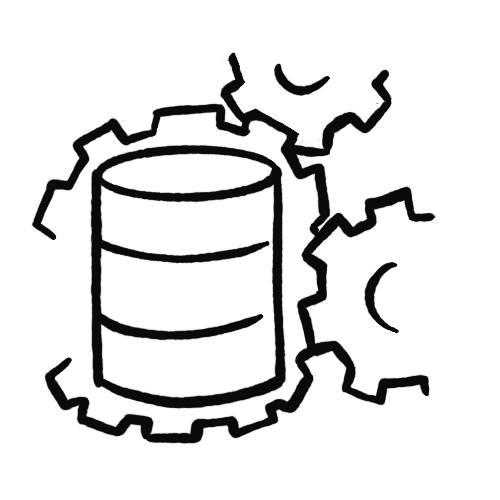
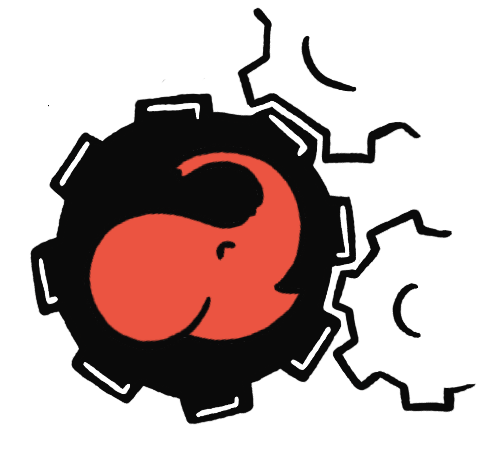
deploy: 911ce220da8ccbd3fe992e1dbddb18e883c57550

diff --git a/index.html b/index.html
@@ -709,7 +709,7 @@ your data – in one open source interface" />
           </div>
         </li>
         <li class="text-lg space-y-4">
-          <img class="h-12 mx-auto lg:m-0" src="assets/chest-icon.png" alt="Chest Icon" />
+          <img class="h-12 mx-auto lg:m-0" src="assets/os-icon.png" alt="Chest Icon" />
           <div>
             <span class="font-bold">No paid plans</span> – everyone gets access
             to the full feature set.

diff --git a/non-technical-expert.html b/non-technical-expert.html
@@ -332,7 +332,7 @@ No technical skills required.</p>
   <ul class="lg:flex justify-between uppercase font-semibold text-sm max-w-6xl mx-auto">
     
     <li class="flex items-center space-x-2 w-max mx-auto">
-      <img src="assets/postgres-icon.png" class="h-12" alt="" />
+      <img src="assets/user-org-icon.png" class="h-12" alt="" />
       <span class="font-bold">Individuals &amp; Organizations</span>
     </li>
     
